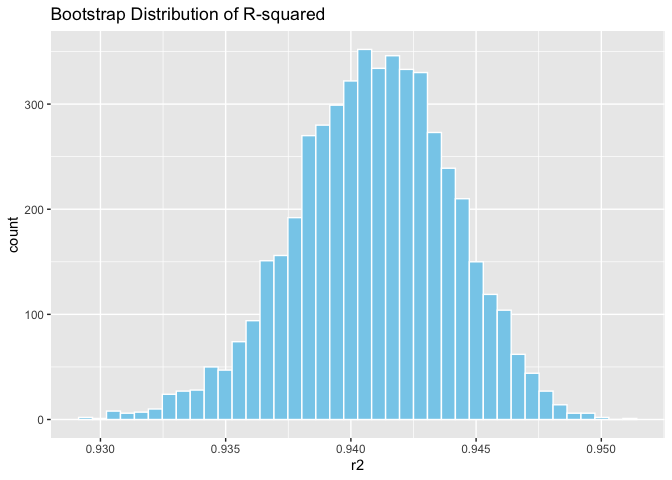
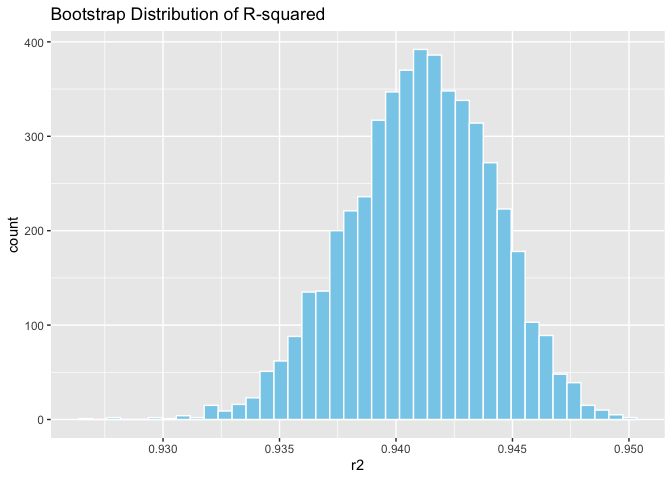
problem 3 cv+plot

diff --git a/p8105_hw6_hy2958.md b/p8105_hw6_hy2958.md
@@ -239,14 +239,14 @@ ci_r2
 ```
 
     ##      2.5%     97.5% 
-    ## 0.9343123 0.9467067
+    ## 0.9347448 0.9466961
 
 ``` r
 ci_ratio
 ```
 
     ##      2.5%     97.5% 
-    ## -279.2995 -124.7110
+    ## -279.0624 -126.1463
 
 ``` r
 boot_results %>%
@@ -394,3 +394,43 @@ ggplot(bw_predA, aes(x = pred, y = resid)) +
     ## `geom_smooth()` using method = 'gam' and formula = 'y ~ s(x, bs = "cs")'
 
 ![](p8105_hw6_hy2958_files/figure-gfm/unnamed-chunk-8-1.png)<!-- -->
+
+``` r
+model_B <- lm(bwt ~ blength + gaweeks, data = bw)
+model_C <- lm(bwt ~ bhead * blength * babysex, data = bw)
+
+set.seed(123)
+cv <- modelr::crossv_mc(bw, 100)
+
+cv <- cv %>%
+  mutate(
+    train = map(train, as_tibble),
+    test  = map(test,  as_tibble),
+  
+    fit_A = map(train, ~ lm(bwt ~ blength + bhead + gaweeks + ppbmi + smoken + babysex + blength:bhead, data = .x)),
+    fit_B = map(train, ~ lm(bwt ~ blength + gaweeks, data = .x)),
+    fit_C = map(train, ~ lm(bwt ~ bhead * blength * babysex, data = .x)),
+
+    rmse_A = map2_dbl(fit_A, test, ~ rmse(model = .x, data = .y)),
+    rmse_B = map2_dbl(fit_B, test, ~ rmse(model = .x, data = .y)),
+    rmse_C = map2_dbl(fit_C, test, ~ rmse(model = .x, data = .y))
+  )
+```
+
+``` r
+cv_rmse <- cv %>%
+  select(starts_with("rmse")) %>%
+  pivot_longer(everything(), names_to = "model", values_to = "rmse")
+
+cv_rmse %>%
+  ggplot(aes(x = model, y = rmse)) +
+  geom_boxplot() +
+  labs(title = "Cross-validated RMSE for the 3 models")
+```
+
+![](p8105_hw6_hy2958_files/figure-gfm/unnamed-chunk-10-1.png)<!-- -->
+Model A achieves the lowest RMSE, indicating the best performance. Model
+C performs slightly worse than Model A. Model B has the highest RMSE and
+the weakest predictive ability. Overall, the cross-validation results
+confirm that Model A provides the most accurate and reliable predictions
+of birthweight.
